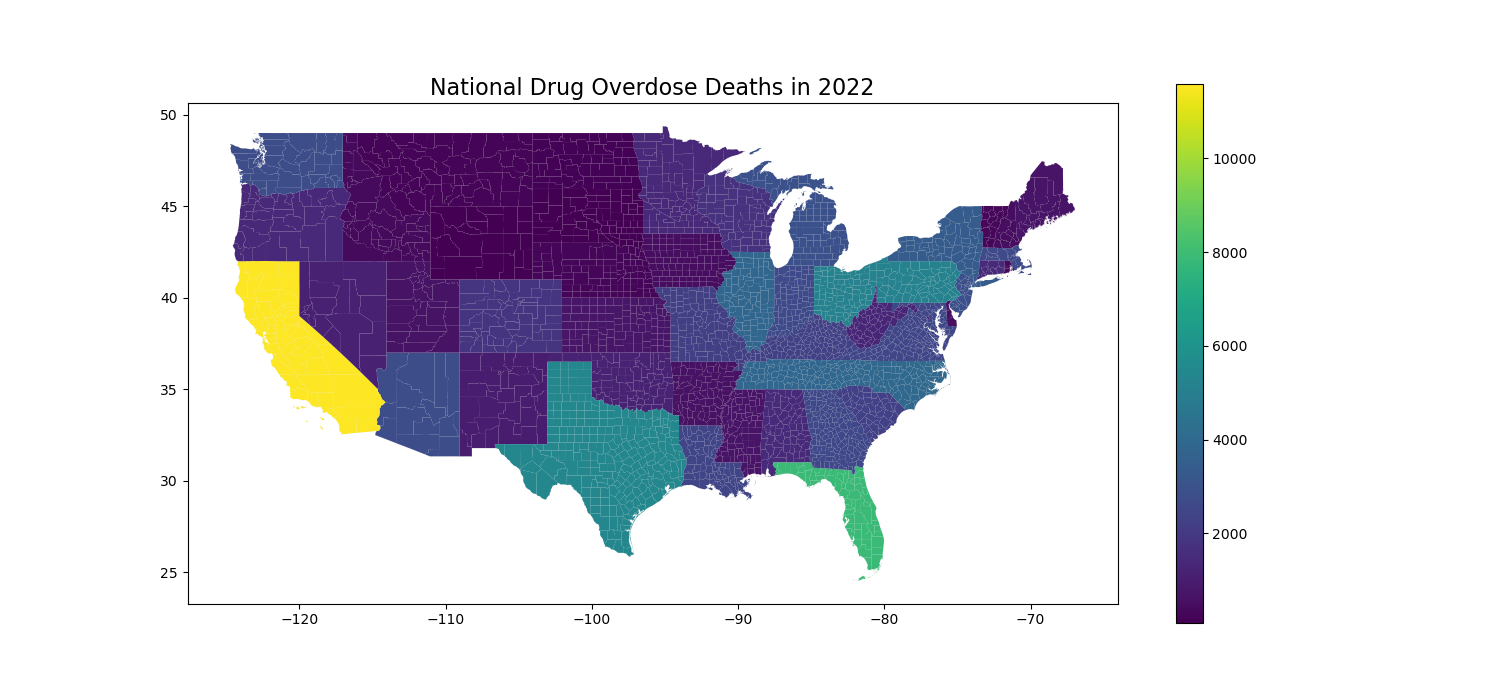
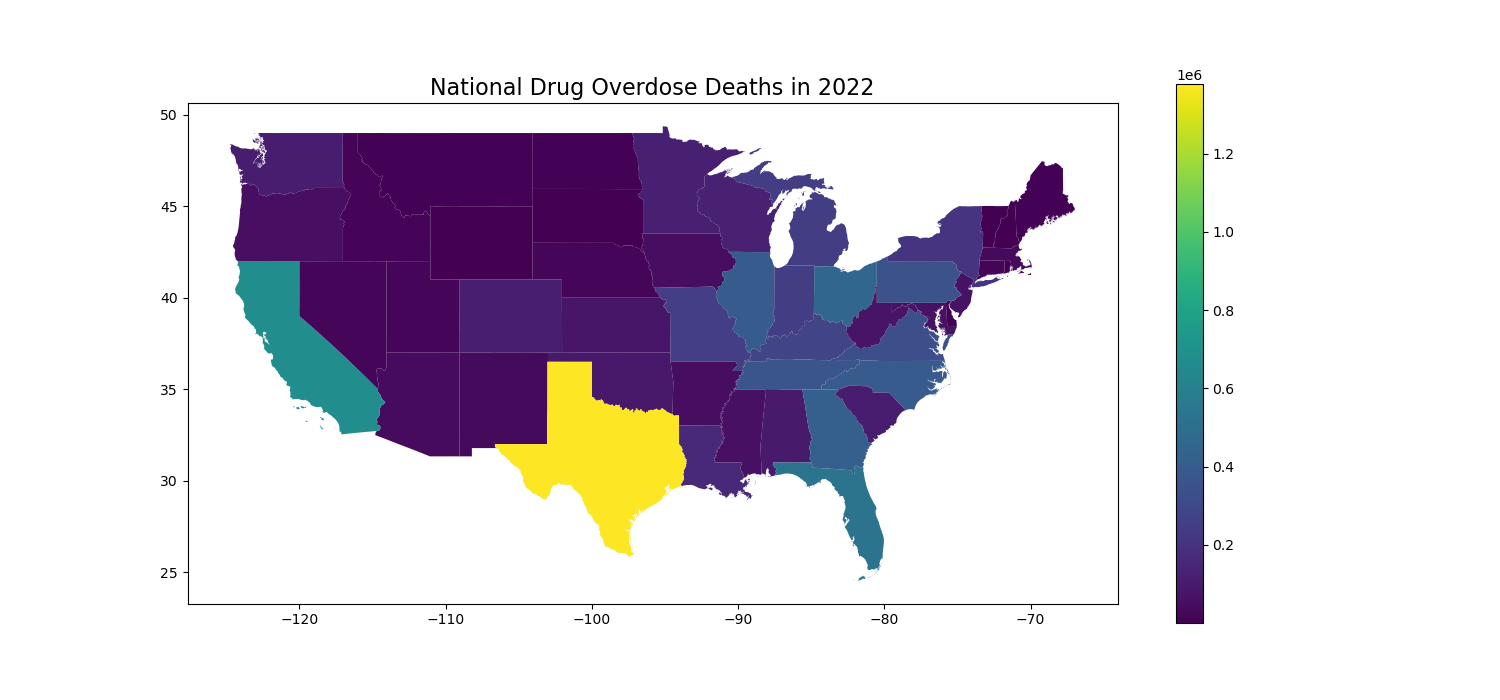
Fixed Q3

diff --git a/test.py b/test.py
@@ -63,8 +63,38 @@ def test_overdose_deaths_counties(wa_geo_data: gpd.GeoDataFrame,
     #     year_data.plot(ax=ax, column='Death Count', legend=True)
 
 
-# def test_wa_versus_us():
-#     pass
+def test_wa_versus_us(national_geo_data: gpd.GeoDataFrame) -> None:
+    """
+    This function tests the wa_versus_us method from question_3.py
+    """
+    usa_data = national_geo_data[['State', 'Year', 'Month', 'Period',
+                                  'Indicator', 'Data Value']].copy()
+    usa_data['Year'] = usa_data['Year'].astype(str)
+    usa_data['Data Value'] = usa_data['Data Value'].str.replace(',', '')
+    usa_data['Data Value'] = usa_data['Data Value'].fillna('0').astype(float)
+
+    # Create masks
+    any_drug = (usa_data['Indicator'] == 'Number of Drug Overdose Deaths')
+    year = (usa_data['Year'] == '2022')
+    month = (usa_data['Month'] == 'December')
+    states = (usa_data['State'] != 'AK') & (usa_data['State'] != 'HI') & \
+             (usa_data['State'] != 'YC') & (usa_data['State'] != 'US')
+
+    # Filter data
+    usa_data = usa_data[any_drug & year & month & states]
+
+    # Further slicing
+    usa_data = usa_data[['State', 'Data Value']]
+
+    # Group by state and sum up death counts
+    usa_data = usa_data.groupby('State')['Data Value'].sum()
+
+    # Print datatable
+    print()
+    print('QUESTION 3')
+    print('Printing table of national death counts in 2022:')
+    print()
+    print(usa_data)
 
 
 # def race_death_wa():
@@ -77,10 +107,13 @@ def main():
                              "By Location and Date")
     wa_geo_data = merge_geo("Data/geodata/cb_2022_us_county_500k.shp",
                             xlsx_file)
+    national_geo_data = merge_geo("Data/geodata/cb_2022_us_county_500k.shp",
+                                  csv_file_name="Data/NationalOverdose.csv")
 
     # Test methods
     test_wa_overdose_change(xlsx_file)
     test_overdose_deaths_counties(wa_geo_data)
+    test_wa_versus_us(national_geo_data)
 
 
 if __name__ == "__main__":

diff --git a/question_3.py b/question_3.py
@@ -38,6 +38,12 @@ def wa_versus_us(national_geo_data: gpd.GeoDataFrame) -> None:
     # Filter data
     usa_data = usa_data[any_drug & year & month & states]
 
+    # Further slicing
+    usa_data = usa_data[['State', 'Data Value', 'geometry']]
+
+    # Group by state and sum death counts
+    usa_data = usa_data.dissolve(by='State', aggfunc='sum')
+
     # Plot data
     fig, ax = plt.subplots(1, figsize=(15, 7))
     usa_data.plot(ax=ax, color='#EEEEEE')
